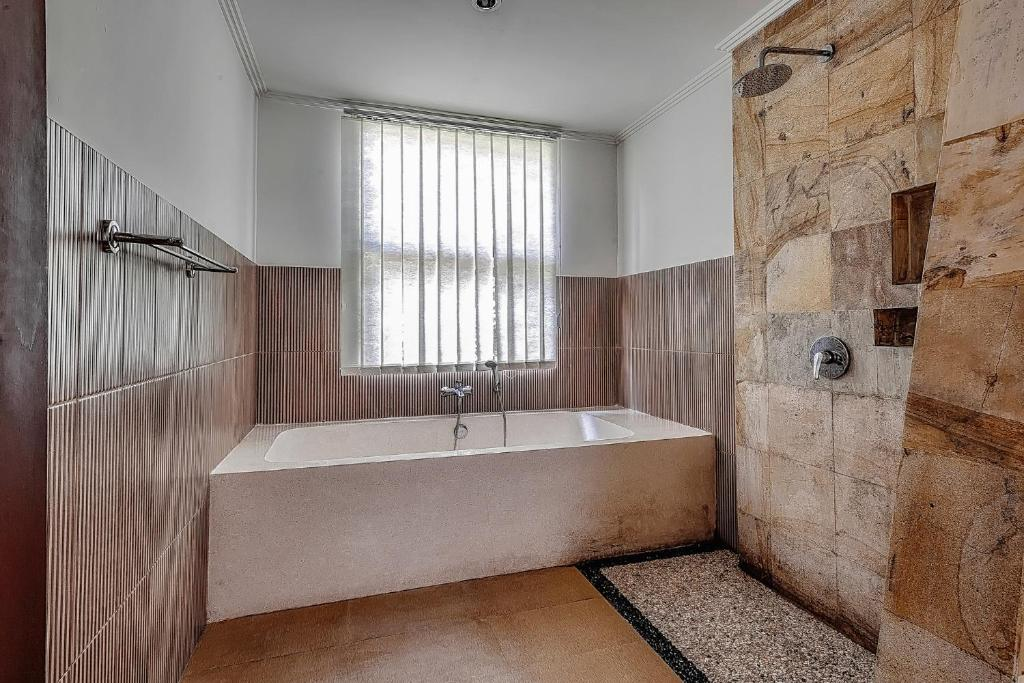
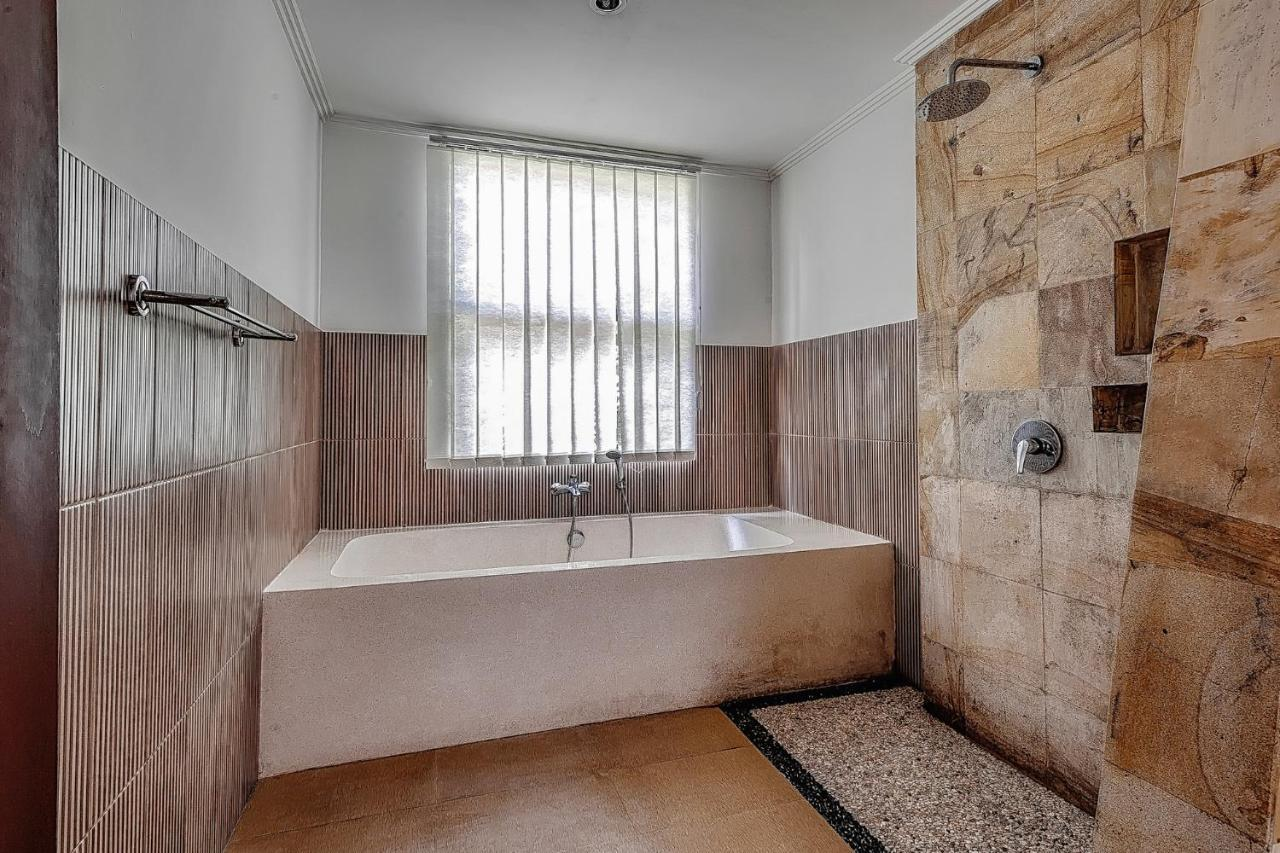
fix: broken slideshow photos, curate Pool Villa gallery, preload slides
- restore missing pool villa photos from git + downloads
- copy 443798394 to Deluxe Cottage folder
- curate Pool Villa to 12 best shots in story order (exterior → rooms → living → bathrooms)
- remove broken reference to 16427453.jpg
- RoomSlideshow: preload next slide to eliminate white-flash on transition
- add priority on slide 0 for fast first paint

diff --git a/components/common/RoomSlideshow.tsx b/components/common/RoomSlideshow.tsx
@@ -25,16 +25,25 @@ export function RoomSlideshow({
   autoAdvanceMs = 2000,
 }: RoomSlideshowProps) {
   const [current, setCurrent] = useState(0);
+  const [loaded, setLoaded] = useState<Record<number, boolean>>({ 0: false });
   const timerRef = useRef<ReturnType<typeof setTimeout> | null>(null);
   const paused = useRef(false);
 
   const scheduleNext = useCallback(() => {
     if (timerRef.current) clearTimeout(timerRef.current);
     if (images.length <= 1 || paused.current) return;
-    timerRef.current = setTimeout(() => {
-      setCurrent((c) => (c + 1) % images.length);
-    }, autoAdvanceMs);
-  }, [images.length, autoAdvanceMs]);
+    const next = (current + 1) % images.length;
+    // Only advance once the next image is marked loaded
+    const advance = () => setCurrent(next);
+    if (loaded[next]) {
+      timerRef.current = setTimeout(advance, autoAdvanceMs);
+    } else {
+      // Poll briefly until loaded, then advance
+      timerRef.current = setTimeout(() => {
+        timerRef.current = setTimeout(advance, 200);
+      }, autoAdvanceMs);
+    }
+  }, [images.length, autoAdvanceMs, current, loaded]);
 
   useEffect(() => {
     scheduleNext();
@@ -83,6 +92,22 @@ export function RoomSlideshow({
       role="region"
       aria-label="Room photo slideshow"
     >
+      {/* Preload next slide silently */}
+      {images.length > 1 && (
+        <div className="absolute inset-0 opacity-0 pointer-events-none" aria-hidden="true">
+          <Image
+            src={images[(current + 1) % images.length].src}
+            alt=""
+            fill
+            sizes={sizes}
+            className="object-cover"
+            onLoad={() =>
+              setLoaded((prev) => ({ ...prev, [(current + 1) % images.length]: true }))
+            }
+          />
+        </div>
+      )}
+
       {/* Slides */}
       <AnimatePresence mode="sync" initial={false}>
         <motion.div
@@ -98,7 +123,9 @@ export function RoomSlideshow({
             alt={images[current].alt}
             fill
             sizes={sizes}
+            priority={current === 0}
             className="object-cover"
+            onLoad={() => setLoaded((prev) => ({ ...prev, [current]: true }))}
           />
         </motion.div>
       </AnimatePresence>
